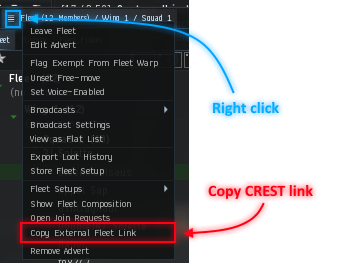
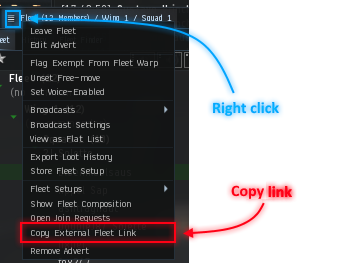
ESI help page

Changed region(s): [[0.5625, 0.6692, 0.9062, 0.7605]]

diff --git a/modules/help/templates/default/esi.html b/modules/help/templates/default/esi.html
@@ -1,0 +1,116 @@
+<div class="content">
+	<h1 style="margin-bottom: 0;">
+		<img src="/images/default/ui/question.png" align="left">
+		Help ESI
+	</h1>
+</div>
+
+{include "help/menu"}
+
+<div class="content">
+	<div class="col6">
+		<div style="padding: .5em;">
+			<h3>SSO (Single Sign On) and Vippy</h3>
+		</div>
+		<div style="padding: .5em;">
+			You use your EVE account to log in to Vippy. By doing this, Vippy can confirm your identity with CCP.<br />
+			<span style="color: #ffffff;"><b>Under <u>no</u> circumstances is Vippy able to read or otherwise get your EVE account details.</b></span>
+		</div>
+		<div style="padding: .5em;">
+			The SSO server also returns a so called 'authentication token' that Vippy can use to access the ESI api.
+		</div>
+		<div style="padding: .5em;">
+			See this
+			<a href="https://community.eveonline.com/news/dev-blogs/eve-online-sso-and-what-you-need-to-know/" target="_blank">dev blog</a>
+			for more details on how the sso works and why it is secure.
+		</div>
+		<div style="clear:both;"></div>
+	</div>
+	<div class="col6 right last">
+		<div style="padding: .5em;">
+			<h3>ESI and Vippy</h3>
+		</div>
+		<div style="padding: .5em;">
+			Vippy relies on ESI for authentication and for tracking your current location.
+			Using ESI, Vippy can automatically track your location and lookup valuable intel to display on your map.
+		</div>
+		<div style="padding: .5em;">
+			Using ESI Vippy is also able to do things like set your ingame autopilot to a destination.
+		</div>
+		<div style="padding: .5em;">
+			You can see (and revoke) what applications can access ESI in your
+			<a href="https://community.eveonline.com/support/third-party-applications/" target="_blank">EVE acount page</a>.
+		</div>
+		<div style="clear:both;"></div>
+	</div>
+	<div style="clear:both;"></div>
+</div>
+
+<div class="content" style="padding-top: 2em;">
+	<h2>
+		<img src="/images/default/ui/map.png" align="left">
+		ESI Tracking
+	</h2>
+	<div class="col6">
+		<div style="padding: .5em;">
+			<h3>ESI Fleet API</h3>
+		</div>
+		<div style="padding: .5em;">
+			Vippy's main method of tracking is via the ESI fleet api. This requires you to add your fleet to Vippy.
+			It is important to register your fleets, because for registered fleets, Vippy is able to track every
+			fleet member with a single api call.
+			This is more efficient then if Vippy has to track and call every character individually.
+		</div>
+		<div style="padding: .5em;">
+			<strong>Adding your fleet:</strong><br />
+			At the bottom of the map there is a button 'Add Fleet', use that to add your fleet.
+			You will need to enter the fleet boss and the ESI link for your fleet. You can find your link via the fleet window ingame.
+		</div>
+        <div style="padding: .5em; margin-top: 1em; text-align: center;">
+            <img src="/modules/help/images/fleet.png">
+        </div>
+		<div style="clear:both;"></div>
+	</div>
+	<div class="col6 right last">
+		<div style="padding: .5em;">
+			<h3>ESI Character Location API</h3>
+		</div>
+		<div style="padding: .5em;">
+			In order to track a characters location, Vippy needs to make 3 calls:<br />
+			<ul style="margin: 0;">
+				<li>Check if character is online</li>
+				<li>Request the characters current location</li>
+				<li>Request the characters current shiptype</li>
+			</ul>
+		</div>
+		<div style="padding: .5em;">
+			The fleet api can get this information, for <b>all</b> characters in fleet, in a single call.<br />
+			<strong>Because of this, it is important you register your fleets to Vippy!</strong>
+		</div>
+		<div style="padding: 1em .5em .5em;">
+			<h3>Tracking Lag</h3>
+		</div>
+		<div style="padding: .5em;">
+			Because it takes so many calls to request a characters location, Vippy may lag behind.
+			To overcome this, there is a 'refresh' button beneath the map.
+			With these buttons, you can trigger the character-location api manually and update your location <b>now</b>!
+			Use this when you have just jumped into a new hole and want to start scanning right away.
+		</div>
+		<div style="padding: .5em;">
+			In your <a href="/profile/account" target="_blank">account settings</a> you can select your dedicated scan-alt.
+			When selected, you can use the 'refresh location' button to refresh your scan-alts location.
+		</div>
+		<div style="padding: .5em;">
+			To refresh any of your other toons (that have <a href="/profile/account" target="_blank">ESI enabled</a> for Vippy),
+			click the arrow and select a toon to update it's location.
+		</div>
+		<div style="padding: .5em;">
+			<strong>To prevent abuse, these buttons are rate limited!! You can only refresh once every 15 seconds.</strong>
+		</div>
+		<div style="padding: .5em; margin-top: 1em; text-align: center;">
+			<img src="/modules/help/images/refresh-location.png">
+		</div>
+		<div style="clear:both;"></div>
+	</div>
+	<div style="clear:both;"></div>
+</div>

diff --git a/modules/map/templates/default/map/overview.html b/modules/map/templates/default/map/overview.html
@@ -57,7 +57,7 @@
 	<!-- CONTROLS -->
 	<div id="mapButtons">
     {if $map->isAllowedAction('add')}
-		<button id="addWormholeButton" onclick="addWormhole('{eveCurrentSolarSystem}','');">
+		<button id="addWormholeButton" onclick="addWormhole();">
 			<img src="/images/default/ui/plus.png" align="left">
 			Add Wormhole
 		</button>

diff --git a/modules/help/templates/default/menu.html b/modules/help/templates/default/menu.html
@@ -8,9 +8,9 @@
 				</a>
 			</li>
 			<li>
-				<a href="/help/crest">
+				<a href="/help/esi">
 					<img src="/images/default/ui/charactersheet.png" align="left">
-					CREST
+					ESI
 				</a>
 			</li>
 			<li>

diff --git a/modules/map/classes/view/Map.php b/modules/map/classes/view/Map.php
@@ -128,7 +128,7 @@ class Map
         }
 
         $fleets = [];
-        foreach (\crest\model\Fleet::findAll(["authgroupid" => $map->authgroupID]) as $fleet) {
+        foreach (\esi\model\Fleet::findAll(["authgroupid" => $map->authgroupID]) as $fleet) {
             if ($fleet->active)
                 $fleets[] = $fleet;
         }

diff --git a/modules/help/classes/view/Esi.php b/modules/help/classes/view/Esi.php
@@ -1,0 +1,12 @@
+<?php
+namespace help\view;
+
+class Esi
+{
+    function getOverview($arguments=[])
+    {
+        \AppRoot::title("Help - ESI");
+        $tpl = \SmartyTools::getSmarty();
+        return $tpl->fetch("help/esi");
+    }
+}
